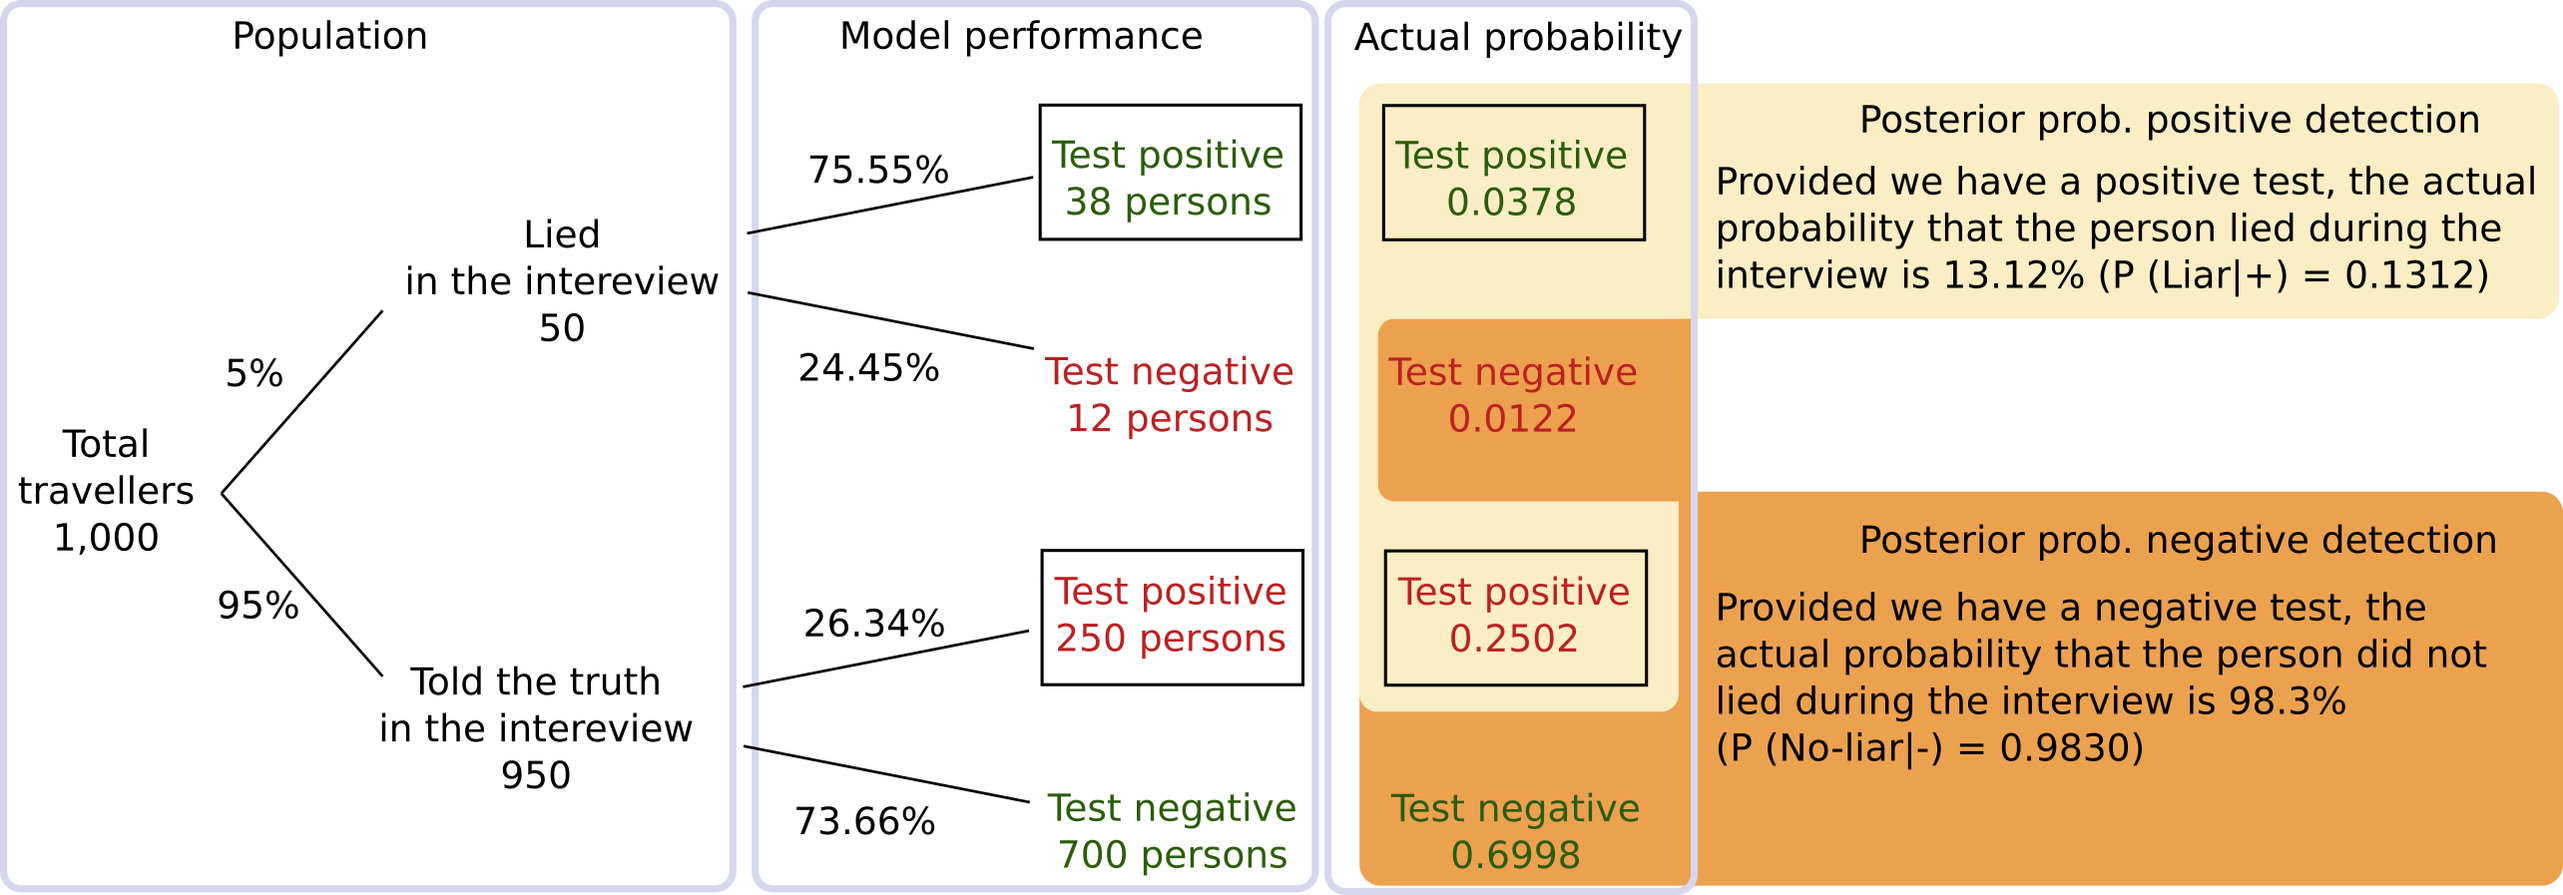
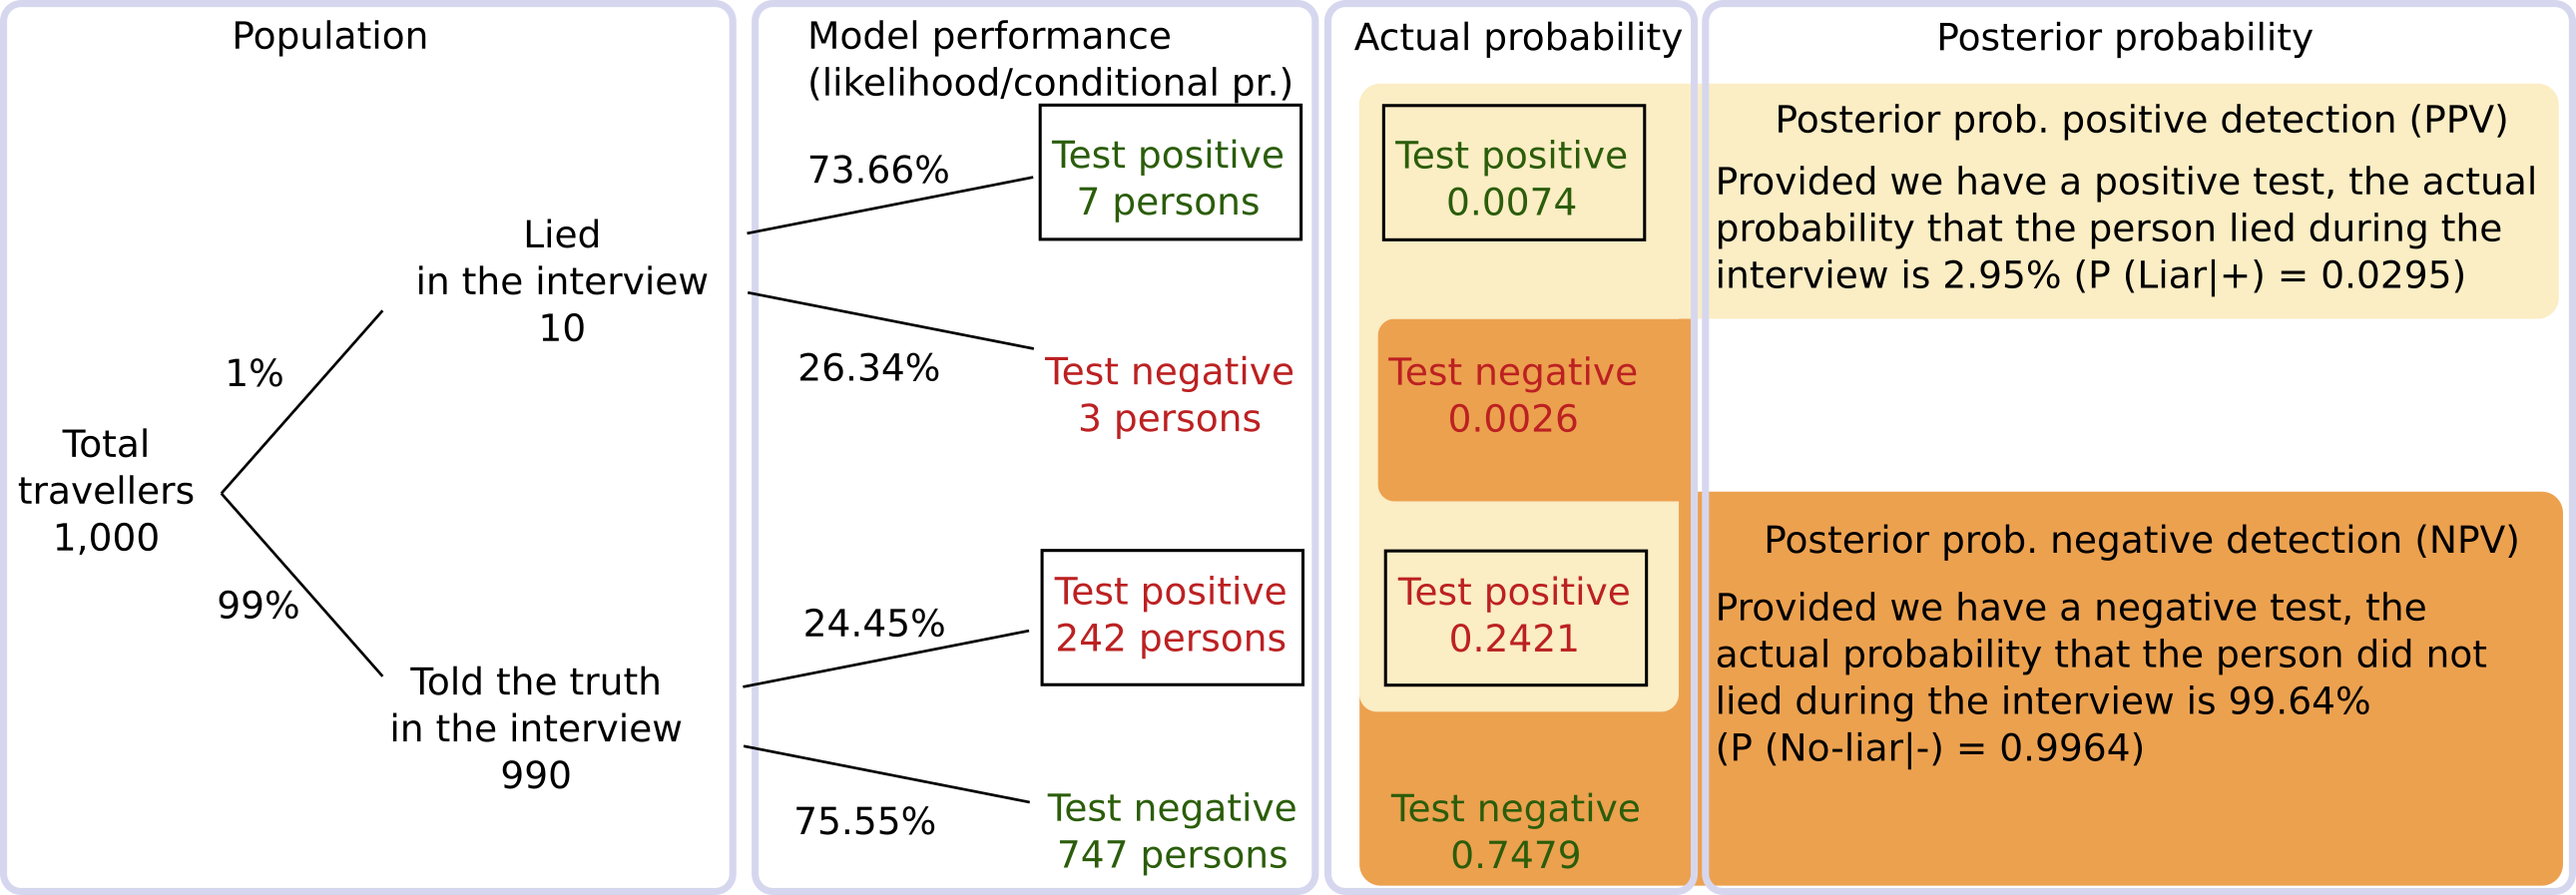
Corrected performance data from original papers

diff --git a/bayesian-analysis.html b/bayesian-analysis.html
@@ -13150,7 +13150,7 @@ $( document ).ready(function(){
 <p>These outcomes can be represented in the <a href="https://en.wikipedia.org/wiki/Confusion_matrix">confusion matrix</a>, for instance, the reported performance of iBorderCtrl is (see Table IV in [5]):</p>
 <table>
 <thead><tr>
-<th>Test Result\Ground Truth</th>
+<th>Test Result\ Ground Truth</th>
 <th>Lie</th>
 <th>no-lie</th>
 </tr>
@@ -13158,20 +13158,20 @@ $( document ).ready(function(){
 <tbody>
 <tr>
 <td>Test positive</td>
-<td>75.55%</td>
-<td>26.34%</td>
+<td>73.66%</td>
+<td>24.45%</td>
 </tr>
 <tr>
 <td>Test negative</td>
-<td>24.45%</td>
-<td>73.66%</td>
+<td>26.34%</td>
+<td>75.55%</td>
 </tr>
 </tbody>
 </table>
 <p>How we interpret this performance:</p>
 <ul>
-<li>If the person lies, there is a 75.55% of chances of having a positive test (true positive) and 24.45% of having a negative test (false negative). </li>
-<li>If the person tells the truth, there is a 26.34% of chance the test will be positive (false positive) and 73.66% the test will be negative (true negative). </li>
+<li>If the person lies, there is a 73.66% of chances of having a positive test (true positive) and 26.34% of having a negative test (false negative). </li>
+<li>If the person tells the truth, there is a 24.45% of chance the test will be positive (false positive) and 75.55% the test will be negative (true negative). </li>
 </ul>
 <p>Some notes on tests and probability (adapted from [1]):</p>
 <ul>
@@ -13186,10 +13186,9 @@ $( document ).ready(function(){
 <div class="cell border-box-sizing text_cell rendered"><div class="prompt input_prompt">
 </div><div class="inner_cell">
 <div class="text_cell_render border-box-sizing rendered_html">
-<h2 id="Bayes'-Theorem">Bayes' Theorem<a class="anchor-link" href="#Bayes'-Theorem">&#182;</a></h2><figure>
-  <img src="pics/Bayes_Theorem.png" alt="Bayes Theorem" style="width:50%">
-  <figcaption style="text-align:center" >Bayes' Theorem summary. Source <a href="https://betterexplained.com/articles/an-intuitive-and-short-explanation-of-bayes-theorem/">Betterexplained</a>.</figcaption>
-</figure><p>The probability of an event is the number of ways it could happen given all possible outcomes. In our case:</p>
+<h2 id="Bayes'-Theorem">Bayes' Theorem<a class="anchor-link" href="#Bayes'-Theorem">&#182;</a></h2><p><img src="pics/Bayes_Theorem.png" alt="Bayes Theorem summary"></p>
+<p>Bayes' Theorem summary. Source <a href="https://betterexplained.com/articles/an-intuitive-and-short-explanation-of-bayes-theorem/">Betterexplained</a></p>
+<p>The probability of an event is the number of ways it could happen given all possible outcomes. In our case:</p>
 \begin{align}
 \text{Probability} &amp;= \frac{\text{desired event}}{\text{all posibilities}} \\
 P(\text{Lie}\mid\text{+}) &amp;= \frac{P(\text{+}\mid\text{Lie}) P(\text{Lie})}{P(+)} \\
@@ -13197,10 +13196,10 @@ P(\text{Lie}\mid\text{+}) &amp;= \frac{P(\text{+}\mid\text{Lie}) P(\text{Lie})}{
 \end{align}<p>where:</p>
 <ul>
 <li>$P(\text{Lie}\mid\text{+})$ is the probability of having a liar ($\text{Lie}$) given a positive test ($\text{+}$), formally the <em>posterior probability</em>. </li>
-<li>$P(\text{+}\mid\text{Lie})$ is the chance of having a positive test ($\text{+}$) when the person is lying $(\text{Lie}$). This is the chance of true positive (75.55% in our example).</li>
+<li>$P(\text{+}\mid\text{Lie})$ is the chance of having a positive test ($\text{+}$) when the person is lying $(\text{Lie}$). This is the chance of true positive (73.66% in our example).</li>
 <li>$P(Lie)$ is the chance of having of persons that would lie in an interview, formally <em>prior probability</em>. It can be also referred to as <em>frequency</em> or <em>prevalence</em>.</li>
 <li>$P(No-lie)$ is the chance of having a person that is telling the truth ($P(No-lie)=1-P(Lie)$). </li>
-<li>$P(\text{+}\mid\text{No-lie})$ is the chance of having a positive test ($\text{+}$) when the person is not lying $(\text{No-lie}$). This is a false positive (26.34% in our example).</li>
+<li>$P(\text{+}\mid\text{No-lie})$ is the chance of having a positive test ($\text{+}$) when the person is not lying $(\text{No-lie}$). This is a false positive (24.45% in our example).</li>
 </ul>
 <p>The posterior probability is also referred to as <strong>positive predictive value</strong> (PPV) and it answers the question: <strong>provided we have a positive test, what is the probability the person is lying?</strong></p>
 <p>Analogously, we can use the rule to calculate the <strong>negative predictive value</strong> (NPV):</p>
@@ -13218,7 +13217,7 @@ P(\text{No-lie}\mid\text{-}) &amp;= \frac{P(\text{-}\mid\text{No-lie}) P(\text{N
 <h2 id="Formulating-hypothesis-of-scenarios">Formulating hypothesis of scenarios<a class="anchor-link" href="#Formulating-hypothesis-of-scenarios">&#182;</a></h2><h3 id="Correcting-the-confusion-matrix">Correcting the confusion matrix<a class="anchor-link" href="#Correcting-the-confusion-matrix">&#182;</a></h3><p>We can use the prevalence or prior probability to update the confusion matrix to estimate the chances of all the four possible results of the test. Assuming $P(Lie)=0.15$:</p>
 <table>
 <thead><tr>
-<th>Test Result\Ground Truth</th>
+<th>Test Result\ Ground Truth</th>
 <th>Lie</th>
 <th>No-lie</th>
 </tr>
@@ -13238,7 +13237,7 @@ P(\text{No-lie}\mid\text{-}) &amp;= \frac{P(\text{-}\mid\text{No-lie}) P(\text{N
 </table>
 <table>
 <thead><tr>
-<th>Test Result\Ground Truth</th>
+<th>Test Result\ Ground Truth</th>
 <th>Lie (15%)</th>
 <th>No-lie (85%)</th>
 </tr>
@@ -13246,20 +13245,20 @@ P(\text{No-lie}\mid\text{-}) &amp;= \frac{P(\text{-}\mid\text{No-lie}) P(\text{N
 <tbody>
 <tr>
 <td>Test positive</td>
-<td>0.15x0.7555=<br>0.1133</td>
-<td>0.85x0.2634=<br>0.2239</td>
+<td>0.15x0.7366=<br>0.1105</td>
+<td>0.85x0.2445=<br>0.2078</td>
 </tr>
 <tr>
 <td>Test negative</td>
-<td>0.15x0.2445=<br>0.0367</td>
-<td>0.85x0.7366=<br>0.6261</td>
+<td>0.15x0.2634=<br>0.0395</td>
+<td>0.85x0.7555=<br>0.6422</td>
 </tr>
 </tbody>
 </table>
 <p>Assuming $P(Lie)=0.01$:</p>
 <table>
 <thead><tr>
-<th>Test Result\Ground Truth</th>
+<th>Test Result\ Ground Truth</th>
 <th>Lie (1%)</th>
 <th>No-lie (99%)</th>
 </tr>
@@ -13267,17 +13266,17 @@ P(\text{No-lie}\mid\text{-}) &amp;= \frac{P(\text{-}\mid\text{No-lie}) P(\text{N
 <tbody>
 <tr>
 <td>Test positive</td>
-<td>0.01x0.7555=<br>0.0076</td>
-<td>0.99x0.2634=<br>0.2608</td>
+<td>0.01x0.7366=<br>0.0074</td>
+<td>0.99x0.2445=<br>0.2421</td>
 </tr>
 <tr>
 <td>Test negative</td>
-<td>0.01x0.2445=<br>0.0024</td>
-<td>0.99x0.7366=<br>0.7292</td>
+<td>0.01x0.2634=<br>0.0026</td>
+<td>0.99x0.7555=<br>0.7479</td>
 </tr>
 </tbody>
 </table>
-<p>In absolute numbers, in a population of 1000 persons, with 10 of liars (1%), the test will discover 7 liars, but will wrongly label as liars 260 innocent people. In other words, to discover one actual liar the test will wrongly classify 65 people that are telling the truth.</p>
+<p>In absolute numbers, in a population of 1000 persons with 10 liars (1%), the test will discover 7 liars, but will wrongly label as liars 242 innocent people. In other words, to discover one actual liar the test will wrongly classify 34 people that are actually telling the truth. The test will correctly classify as non-liars 747 people.</p>
 
 </div>
 </div>
@@ -13287,21 +13286,21 @@ P(\text{No-lie}\mid\text{-}) &amp;= \frac{P(\text{-}\mid\text{No-lie}) P(\text{N
 <div class="text_cell_render border-box-sizing rendered_html">
 <h3 id="Posterior-probability">Posterior probability<a class="anchor-link" href="#Posterior-probability">&#182;</a></h3><p>$Lie$ is called <em>hypothesis</em> whose probability may be affected by data (evidence or test). By varying $P(Lie)$ we can observe the variation of the posterior probability under different hypotheses. For example, we can calculate the <em>posterior probability</em> (<strong>positive predictive value</strong>, PPV) with the hypothesis of 15% of liars ($P(Lie)=0.15$) in the population that will be screened:</p>
 \begin{align}
-P(\text{Liar}\mid\text{+}) &amp;= \frac{0.7555 \times 0.15}{0.7555 \times 0.15 + 0.2634 \times 0.85} \\
-&amp;\approx 33.61\%
+P(\text{Liar}\mid\text{+}) &amp;= \frac{0.7366 \times 0.15}{0.7366 \times 0.15 + 0.2445 \times 0.85} \\
+&amp;\approx 34.71\%
 \end{align}<p>And the expected rate of false positives (<strong>false discovery rate</strong>, FDR):</p>
 \begin{align}
-P(\text{No-liar}\mid\text{+}) &amp;= 1-P(\text{Liar}\mid\text{+})=1-0.3529  \\
-&amp;\approx 66.39\%
-\end{align}<p>This means that, in a scenario of 15% of liars, 33.61% of positive tests will correspond to actual liars crossing the borders and 66.39% will correspond to false positives. This performance decay that might seem counterintuitive can be explained by the <a href="https://en.wikipedia.org/wiki/Base_rate_fallacy">base rate fallacy</a>.</p>
+P(\text{No-liar}\mid\text{+}) &amp;= 1-P(\text{Liar}\mid\text{+})=1-0.3471  \\
+&amp;\approx 65.29\%
+\end{align}<p>This means that, in a scenario of 15% of liars, 34.71% of positive tests will correspond to actual liars crossing the borders and 65.29% will correspond to false positives. This performance decay that might seem counterintuitive can be explained by the <a href="https://en.wikipedia.org/wiki/Base_rate_fallacy">base rate fallacy</a>.</p>
 <p>Analogously, we can calculate the <strong>negative predictive value</strong> (NPV) with the Bayes' Theorem:</p>
 \begin{align}
-P(\text{No-liar}\mid\text{-}) &amp;= \frac{0.7366 \times 0.85}{0.7366 \times 0.85 + 0.2634 \times 0.15} \\
-&amp;\approx 94.46\%\\
+P(\text{No-liar}\mid\text{-}) &amp;= \frac{0.7555 \times 0.85}{0.7555 \times 0.85 + 0.2445 \times 0.15} \\
+&amp;\approx 94.20\%\\
 \end{align}<p>And the expected rate of false negatives (<strong>false omission rate</strong>, FOR)): 
 \begin{align}
 P(\text{Liar}\mid\text{-}) &amp;= 1-P(\text{No-liar}\mid\text{-})=1-0.9446  \\
-&amp;\approx 5.53\%
+&amp;\approx 5.79\%
 \end{align}</p>
 
 </div>
@@ -13352,10 +13351,10 @@ P(\text{Liar}\mid\text{-}) &amp;= 1-P(\text{No-liar}\mid\text{-})=1-0.9446  \\
     <div class="input_area">
 <div class=" highlight hl-ipython3"><pre><span></span><span class="c1"># Pr(E|H) Chance of a positive test (E) given there is a liar (H). </span>
 <span class="c1"># This is the chance of a true positive. Also sensitivity</span>
-<span class="n">PrEH</span> <span class="o">=</span> <span class="mf">0.7555</span>
+<span class="n">PrEH</span> <span class="o">=</span> <span class="mf">0.7366</span>
 <span class="c1"># Chance of a positive test (E) given that the person wasn&#39;t a lying. </span>
 <span class="c1"># This is the probability of a false positive, also (1-specificity)</span>
-<span class="n">PrEnH</span> <span class="o">=</span> <span class="mf">0.2634</span>
+<span class="n">PrEnH</span> <span class="o">=</span> <span class="mf">0.2445</span>
 
 <span class="c1"># Test the example</span>
 <span class="n">PrH</span> <span class="o">=</span> <span class="mf">0.15</span>
@@ -13379,7 +13378,7 @@ P(\text{Liar}\mid\text{-}) &amp;= 1-P(\text{No-liar}\mid\text{-})=1-0.9446  \\
 
 
 <div class="output_subarea output_stream output_stdout output_text">
-<pre>PrHE=0.33606156309772695 - PrnHnE=0.9446653137895396
+<pre>PrHE=0.3471089958060412 - PrnHnE=0.9420406786125556
 </pre>
 </div>
 </div>
@@ -13496,8 +13495,8 @@ P(\text{Liar}\mid\text{-}) &amp;= 1-P(\text{No-liar}\mid\text{-})=1-0.9446  \\
 <h3 id="Thermal-analysis-to-screen-refugees">Thermal analysis to screen refugees<a class="anchor-link" href="#Thermal-analysis-to-screen-refugees">&#182;</a></h3><p>Last December the University of Granada published an interview with one of the authors of a system to spot liars based on <em>the Pinocchio Effect</em>. The methods use thermography to detect an increase of temperature in the nose of people who are lying while answering a question. The authors propose to use the tool to screen persons at refugee tamps to know "<em>what is the real purpose of people trying to cross borders between countries</em>" [7].</p>
 <p>We can get the TP and FP from the journal publication [6]:</p>
 <ul>
-<li>$P(\text{+}\mid\text{Lie})=0.80$</li>
-<li>$P(\text{+}\mid\text{Non-lie})=0.20$</li>
+<li>$P(\text{+}\mid\text{Lie})=0.85$</li>
+<li>$P(\text{+}\mid\text{Non-lie})=0.25$</li>
 </ul>
 <p>From the interview we don't have clear what the authors mean with <em>the real purpose of people</em> at refugee camps. Let's assume this purpose can be, for instance, to spot terrorists that would be hypothetically hidden in a refugee camp or are trying to enter Europe. So we want to know whether it would be useful to screen all the refugees using a lie detector to spot terrorists.</p>
 <p>We can calculate the prior of refugees that might be related to terrorism by using the data provided by the conservative think tank 'The Heritage Foundation' which claims, with no sources, that there where 44 refugees or asylum seekers involved in terrorist plots in Europe from 2014 to 2017. Note this is an unrealistic scenario with more people related to terrorism that actually are. In that period, we had 3,915,445 first time asylum applicants in Europe [9]. Then, we have the prior of refugees that during an interview will answer they are not terrorist, but they are:</p>
@@ -13505,7 +13504,7 @@ P(\text{Liar}\mid\text{-}) &amp;= 1-P(\text{No-liar}\mid\text{-})=1-0.9446  \\
 <p>So we can update the relative confusion matrix:</p>
 <table>
 <thead><tr>
-<th>Test Result\Ground Truth</th>
+<th>Test Result\ Ground Truth</th>
 <th>Lie (0.0011%)</th>
 <th>No-lie (99.9989%)</th>
 </tr>
@@ -13513,20 +13512,20 @@ P(\text{Liar}\mid\text{-}) &amp;= 1-P(\text{No-liar}\mid\text{-})=1-0.9446  \\
 <tbody>
 <tr>
 <td>Test positive</td>
-<td>0.000011x0.80=<br>0.0000088</td>
-<td>0.999989x0.20=<br>0.1999978</td>
+<td>0.000011x0.85=<br>0.00000935</td>
+<td>0.999989x0.25=<br>0.24999725</td>
 </tr>
 <tr>
 <td>Test negative</td>
-<td>0.000011x0.20=<br>0.0000022</td>
-<td>0.999989x0.80=<br>0.7999912</td>
+<td>0.000011x0.15=<br>0.00000165</td>
+<td>0.999989x0.75=<br>0.74999175</td>
 </tr>
 </tbody>
 </table>
-<p>We can build the absolute confusion matrix for the population of 4 million asylum seekers:</p>
+<p>We can build the absolute confusion matrix for the population of ~4 million asylum seekers:</p>
 <table>
 <thead><tr>
-<th>Test Result\Ground Truth</th>
+<th>Test Result\ Ground Truth</th>
 <th>Lie</th>
 <th>No-lie</th>
 </tr>
@@ -13534,24 +13533,24 @@ P(\text{Liar}\mid\text{-}) &amp;= 1-P(\text{No-liar}\mid\text{-})=1-0.9446  \\
 <tbody>
 <tr>
 <td>Test positive</td>
-<td>35</td>
-<td>799991</td>
+<td>36</td>
+<td>978850</td>
 </tr>
 <tr>
 <td>Test negative</td>
-<td>8</td>
-<td>3199964</td>
+<td>6</td>
+<td>2936551</td>
 </tr>
 </tbody>
 </table>
-<p>Therefore, to discover one terrorist, 22856+1 persons would need to be investigated after been labelled as liars by the system.</p>
+<p>Therefore, to discover one terrorist, ~2719 persons would need to be investigated after been labelled as liars by the system.</p>
 <p>We can calculate the posterior probabilities of having an actual liar when the thermal analysis test is positive (PPV) and having an person answering the truth when the test is negative (NPV):</p>
 \begin{align}
-P(\text{Liar}\mid\text{+}) &amp;= \frac{0.80 \times 0.000011}{0.80 \times 0.000011 + 0.20 \times 0.999988} \\
-&amp;\approx 0.004495\%\\
-P(\text{No-liar}\mid\text{-}) &amp;= \frac{0.80 \times 0.999988}{0.20 \times 0.000011 + 0.80 \times 0.999988}  \\
-&amp;\approx 99.9997\%
-\end{align}<p>On the one hand, this means that <em>only 4 in a population of 1000 terrorists will be detected by the lie detector</em>. On the other hand, the NPV is 99.9997%. The expected rate of false positives is 0.2.</p>
+P(\text{Liar}\mid\text{+}) &amp;= \frac{0.85 \times 0.000011}{0.85 \times 0.000011 + 0.25 \times 0.999988} \\
+&amp;\approx 0.0037\%\\
+P(\text{No-liar}\mid\text{-}) &amp;= \frac{0.75 \times 0.999988}{0.15 \times 0.000011 + 0.75 \times 0.999988}  \\
+&amp;\approx 99.9998\%
+\end{align}<p>In relative numbers, this means that <em>only 9 terrorists hidden in a population of 1 million will be detected by the lie detector</em> whereas 249997 innocent people would need to be unnecessarily investigated.</p>
 
 </div>
 </div>
@@ -13570,9 +13569,9 @@ P(\text{No-liar}\mid\text{-}) &amp;= \frac{0.80 \times 0.999988}{0.20 \times 0.0
 <div class="inner_cell">
     <div class="input_area">
 <div class=" highlight hl-ipython3"><pre><span></span><span class="c1"># Pr(E|H) Chance of a positive test (E) given there is a liar (H). This is the chance of a true positive.</span>
-<span class="n">PrEH</span> <span class="o">=</span> <span class="mf">0.80</span>
+<span class="n">PrEH</span> <span class="o">=</span> <span class="mf">0.85</span>
 <span class="c1"># Chance of a positive test (E) given that the person wasn&#39;t a lying. This is the probability of a  false positive</span>
-<span class="n">PrEnH</span> <span class="o">=</span> <span class="mf">0.20</span>
+<span class="n">PrEnH</span> <span class="o">=</span> <span class="mf">0.25</span>
 
 <span class="c1"># posterior of true positives / positive predictive value</span>
 <span class="n">vPrHE</span> <span class="o">=</span> <span class="n">vfunc</span><span class="p">(</span><span class="n">PrEH</span><span class="p">,</span> <span class="n">vPrH</span><span class="p">,</span> <span class="n">PrEnH</span><span class="p">)</span>
@@ -13672,9 +13671,8 @@ P(\text{No-liar}\mid\text{-}) &amp;= \frac{0.80 \times 0.999988}{0.20 \times 0.0
 </div><div class="inner_cell">
 <div class="text_cell_render border-box-sizing rendered_html">
 <h2 id="Decision-tree-of-events">Decision tree of events<a class="anchor-link" href="#Decision-tree-of-events">&#182;</a></h2><p>To sum up all the concepts we present the decision tree of events of the example of iBorderCtrl to relate the corrected test outcomes and the posterior probabilities.</p>
-<figure>
-  <img src="pics/decission-tree.png" alt="Decission tree of events and actual probabilities" style="width:80%">
-</figure><h2 id="Conclusions">Conclusions<a class="anchor-link" href="#Conclusions">&#182;</a></h2><ul>
+<p><img src="pics/decision-tree.png" alt="Decision tree of events"></p>
+<h2 id="Conclusions">Conclusions<a class="anchor-link" href="#Conclusions">&#182;</a></h2><ul>
 <li>Massive screening of entire populations to look for events through a flawed test is problematic </li>
 <li>Performance analysis should be corrected with the prior probability of the event of interest</li>
 <li>None of the proposed tests will be able to detect illegalised migrants or terrorists with the so-called lie detectors, even if they really existed </li>
